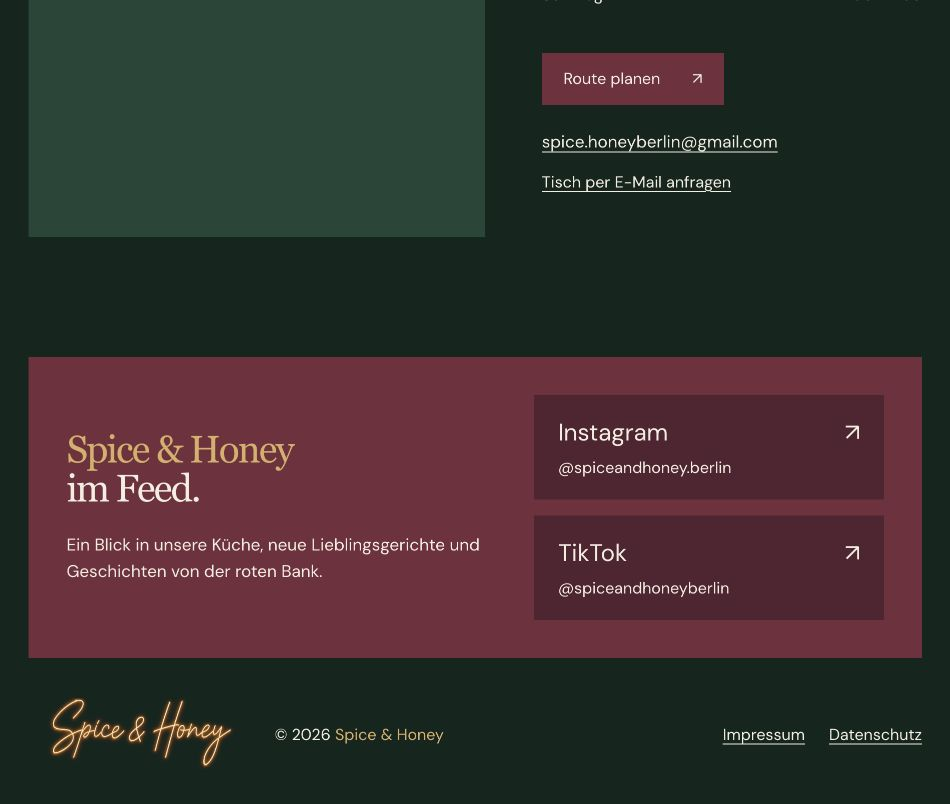
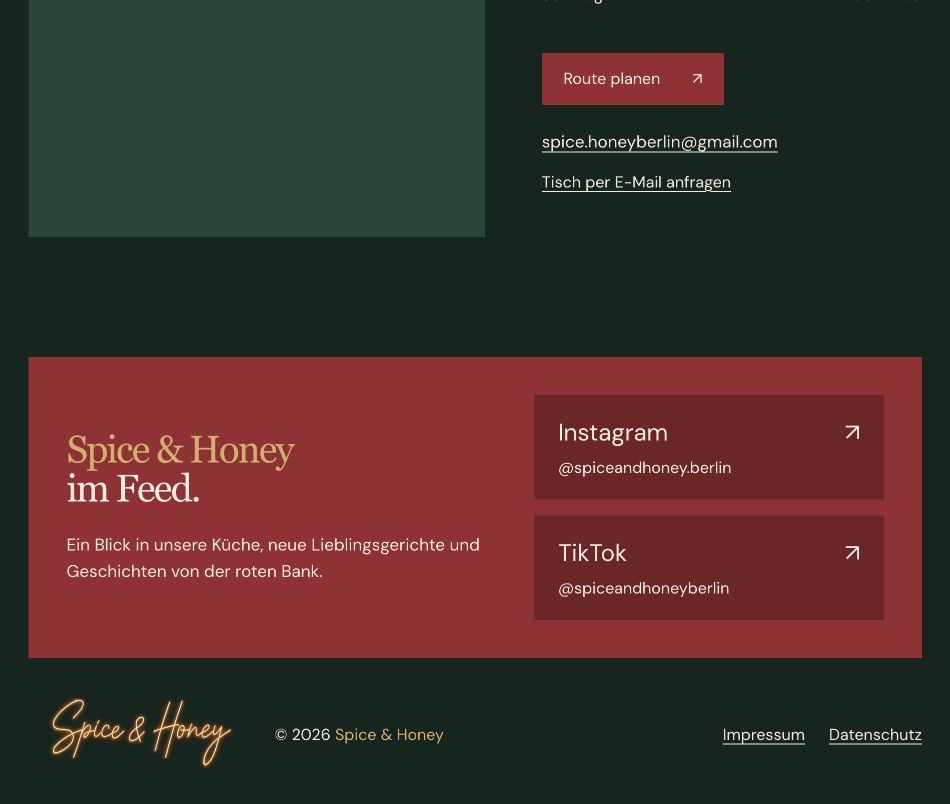
Match red accents to the new velvet bench reference photo

diff --git a/styles.css b/styles.css
@@ -12,8 +12,8 @@
   --ink: #f4ede1;
   --muted: #c6c8bb;
   --accent: #d9ae65;
-  --red: #742d3d;
-  --red-surface: #542331;
+  --red: #9b2833;
+  --red-surface: #741f28;
   --font-display: Georgia, "Times New Roman", serif;
   --font-text: "DM Sans", Arial, sans-serif;
   --body: 1.0625rem;

diff --git a/docs/design-review.md b/docs/design-review.md
@@ -145,3 +145,10 @@ Bordeaux #742D3D übernimmt die Hauptaktionen, die aktive Menükategorie und die
 Der Menürenderer setzt die Markenfarbe auch nach einem erneuten Build für den Gerichtsnamen. Die HTML-Quellprüfung erfasst alle zehn sichtbaren gesetzten Markennamen in den drei Seiten (6 / 2 / 2) innerhalb der gemeinsamen Farbklasse. E-Mail-Adressen, Profilhandles und Metadaten sind keine gesetzten Markenschriftzüge und wurden nicht zerlegt.
 
 Desktop-, Tablet- und Handyansicht visuell geprüft: die neue Farbe unterbricht die lange grüne Fläche am Seitenende; primäre Buttons und aktive Kategorie greifen sie früher wieder auf. Keine zusätzliche Dekoration oder neue Bilddateien. Gold auf Bordeaux erreicht 4,66:1, Creme auf Bordeaux 8,26:1, Creme auf dem dunkleren Rot 10,86:1. Gesamtbewertung weiterhin eine Vorlage mit bewusst leeren Fotoflächen; keine neue Gesamtbewertung der Fotografie.
+
+
+## Rotton nach neuer Nahaufnahme der Samtbank
+
+Die neue Nutzerreferenz IMG_7139.HEIC zeigt einen wärmeren, stärker gesättigten Rotton als das vorher eingesetzte Bordeaux. Die Datei bleibt unverändert außerhalb des Repositories. Für die Farbanalyse wurde sie lokal dekodiert und ihr eingebettetes Display-P3-Profil in sRGB umgerechnet. Aus zwei breiten Referenzbereichen wurden robuste Medianwerte gebildet: dunklere Rückenlehne ca. #66171C, beleuchtete Sitzfläche ca. #D43D4D. Der gleichgewichtete Mittelpunkt im CIELAB-Farbraum ergibt #9B2833 und dient als einheitlicher Web-Farbton. Die dunklere dazu passende Tonstufe ist #741F28.
+
+Diese Methode vermittelt zwischen den unterschiedlichen Beleuchtungen im Foto. Der Website-Wert ist eine visuelle Annäherung, keine Messung des Stoffes unter Normlicht. Der digitale Vorschlag #B5323C aus dem Board wurde anhand der aktuellen direkten Nutzerreferenz weiter abgestimmt. Positionen der Akzente und goldene Markennamen bleiben wie zuvor gestaltet; keine neue Komposition oder Bildbearbeitung.

diff --git a/docs/qa.md b/docs/qa.md
@@ -84,3 +84,10 @@ Der große gesetzte Schriftzug wurde durch dieselbe originale Logo-Datei wie im 
 - Kontraste: Creme #F4EDE1 auf Bordeaux #742D3D **8,26:1**; Gold #D9AE65 auf Bordeaux **4,66:1**; Creme auf dunklem Bordeaux #542331 **10,86:1**; Gold auf dunklem Bordeaux **6,13:1**.
 - `npm run check`, `npm run build`, Quell-Lint und `git diff --check` erfolgreich. Inspector: 0 FAIL, 0 WARN bei 1440×900, 768×1024 und 390×844 mit den bisherigen drei begründeten Ausnahmen.
 - Fold- und Footer-Screenshots bei allen drei Größen angesehen. Der bestehende Vorschau-Server war beendet und wurde auf demselben Loopback-Port neu gestartet; die Browseransicht wurde aktualisiert und das neue Footerbild gesichert.
+
+
+## Rotton aus IMG_7139.HEIC
+
+- Neue rote Basis #9B2833 und dunklere Fläche #741F28 anhand der lokalen, farbverwalteten Nahaufnahme gewählt. Originaldatei unverändert und nicht ins Repository aufgenommen.
+- Creme auf Basisrot: **6,57:1**; auf dunklerem Rot: **9,16:1**. Gold auf Basisrot: **3,71:1**, ausreichend für die dort verwendete große Social-Überschrift (mindestens 38,4px). Kleine goldene Markennamen stehen weiterhin auf grünen Flächen. Gold auf dunklerem Rot: **5,18:1**.
+- Build, Quell-Lint und `git diff --check` erfolgreich. Inspector bei 1440×900, 768×1024 und 390×844: 0 FAIL, 0 WARN mit den bisherigen drei begründeten Ausnahmen. Footer-Screenshots aller drei Größen angesehen; neue Browser-Vorschau gesichert.

diff --git a/README.md b/README.md
@@ -1,6 +1,6 @@
 # Spice & Honey Website
 
-Responsive Restaurantwebsite für **Spice & Honey**, Plesser Straße 12, Berlin-Alt-Treptow. Gestaltet aus dem bereitgestellten Concept Board: Waldgrün, goldene Markennamen, Bordeaux-Akzente und die rote Samtbank.
+Responsive Restaurantwebsite für **Spice & Honey**, Plesser Straße 12, Berlin-Alt-Treptow. Gestaltet aus dem bereitgestellten Concept Board: Waldgrün, goldene Markennamen, rubinrote Akzente und die rote Samtbank.
 
 ![Desktop-Vorschau](docs/preview-desktop.jpg)
 
